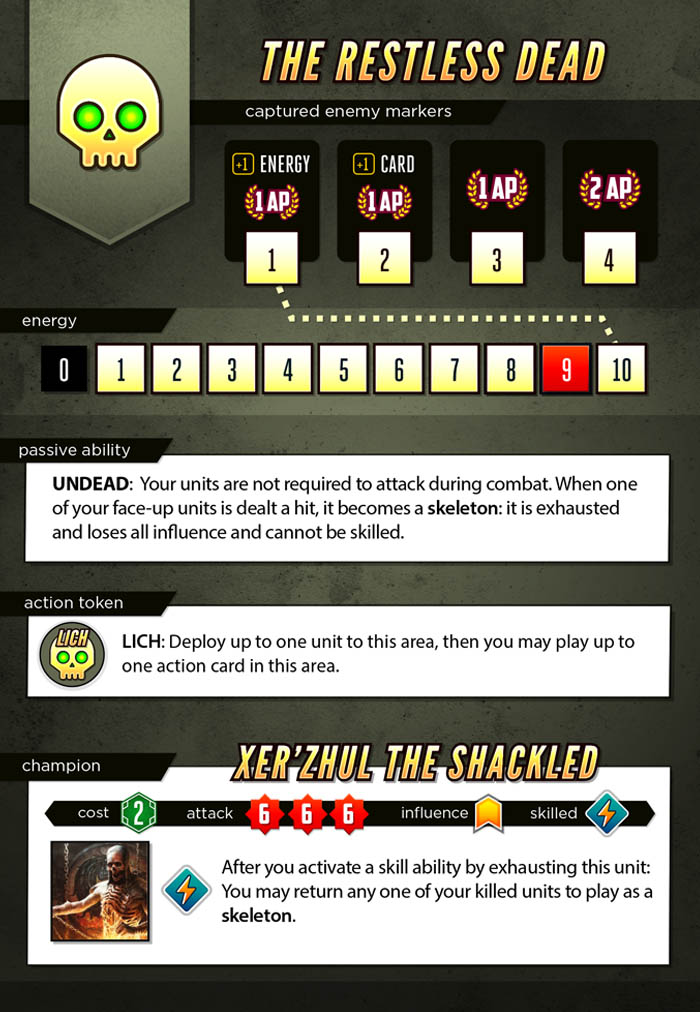
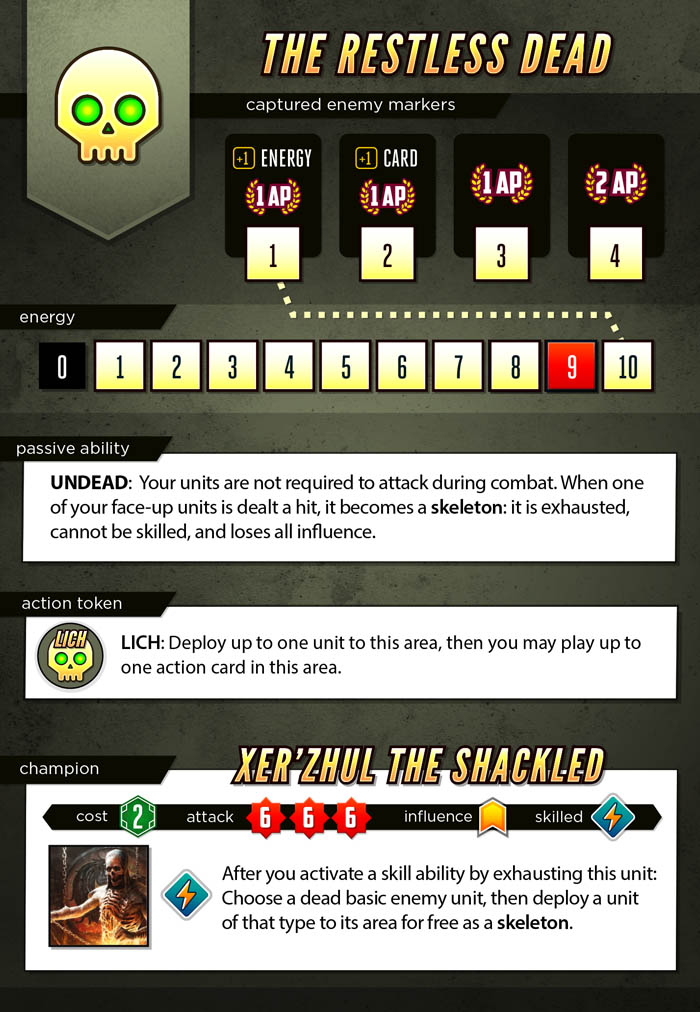
Allow skeletons to raise enemy killed units

diff --git a/server/classes/cards/AllHollowsEve.js b/server/classes/cards/AllHollowsEve.js
@@ -8,76 +8,9 @@ class AllHollowsEve extends Card {
      * Resolve this card ability
      */
     async handle(){
-
         await this.faction.reviveUnits( { reviveCount: this.reviveCount } );
-
-        /*
-        // get our potential areas, and if we have none abort
-        let areas = this.getAreasWithKilledUnits();
-        if( !areas.length ){
-            this.faction.message( 'No killed units to revive', { class : 'warning' } );
-            return;
-        }
-
-        // let player choose their next unit
-        let response = await this.faction.prompt( 'choose-units', {
-            count : this.reviveCount,
-            optionalMax: true,
-            areas : areas,
-            playerOnly : true,
-            killedOnly : true,
-            message: `Choose up to ${this.reviveCount} units killed to revive`,
-        });
-
-        // no unit selected? Welp, guess we are done here
-        if( !response.units ){
-            this.faction.message( 'Declines to revive any units', { class : 'warning' } );
-            return;
-        }
-
-        // revive our units
-        await this.resolveUnitRevival( response );
-         */
     }
 
-
-    /**
-     * Return an array of area names where we have killed units
-     *
-     * @returns {string[]}
-
-    getAreasWithKilledUnits(){
-        let areas = {};
-
-        // get areas where we have killed units
-        this.faction.data.units.forEach( unit => {
-            if( unit.killed && unit.location ){
-                areas[unit.location] = true;
-            }
-        });
-
-        return Object.keys( areas );
-    }
-
-
-    async resolveUnitRevival( response ){
-        // get our unit objects
-        let units = response.units.map( unitId => this.game.objectMap[unitId] );
-
-        // revive our units
-        units.forEach( unit => {
-            unit.killed = false;
-            if( unit.ready ) unit.ready = false;
-            if( unit.flipped ) this.faction.unflipUnit( unit );
-        });
-
-        // display the results
-        await this.game.timedPrompt('units-shifted', {
-            message: `The ${this.faction.name} returns killed units to play`,
-            units: units
-        }).catch( error => console.error( error ) );
-    }
-     */
 }
 
 module.exports = AllHollowsEve;

diff --git a/server/classes/factions/Skeletons.js b/server/classes/factions/Skeletons.js
@@ -82,8 +82,6 @@ class Skeletons extends Faction {
                 hitsAssigned: 0,
                 onDamaged : 'checkBecomeSkeleton',
                 onSkill : 'xerZhulRaiseDead',
-                //onDeploy : 'xerZhulEnters',
-                //onMove : 'xerZhulEnters'
             }
         };
     }
@@ -266,14 +264,61 @@ class Skeletons extends Faction {
      * @param event
      */
     async xerZhulRaiseDead( event ){
+        const areas = this.getAreasWithKilledEnemyUnits();
+        if( !areas.length ){
+            this.message( "No dead for Xer'Zhul to raise", { class : 'warning' } );
+            return;
+        }
 
-        let units = await this.reviveUnits({
-            reviveCount : 1,
-            reviveEvent: 'reviveAsSkeletons'
+        let response = await this.prompt( 'choose-units', {
+            count: 1,
+            areas: areas,
+            killedOnly: true,
+            enemyOnly: true,
+            basicOnly: true,
+            message: "Choose a unit to raise as a skeleton",
         });
+
+        await this.resolveRaiseDead( response );
+    }
+
+    async resolveRaiseDead( response ){
+        let unit = this.game().objectMap[ response.units[0] ];
+
+        let args = {
+            area: unit.location,
+            faction: this,
+            player: this.playerId,
+            free: true,
+            deployLimit: 1,
+            unitTypes: [unit.type],
+            transformUnit: 'becomeSkeleton'
+        };
+
+        // deploy the selected unit
+        let output = await this.deploy( args );
+
+        if( output?.declined ){
+            faction.message( `Doesn't deploy a skeleton to the ${unit.location}` );
+        }
+
 
     }
 
+    /**
+     *
+     *
+     * @returns {*[]}
+     */
+    getAreasWithKilledEnemyUnits(){
+        let areas = [];
+        Object.values( this.game().factions ).forEach( faction => {
+            if( faction.name === this.name ) return;
+            areas = [...areas, ...faction.getAreasWithKilledUnits()];
+        });
+
+        return [...new Set(areas)]
+    }
 
     /**
      * Revive our units ask skeletons when using xerZhul's revive ability

diff --git a/server/classes/factions/mixins/deploysUnits.js b/server/classes/factions/mixins/deploysUnits.js
@@ -71,7 +71,8 @@ let obj = {
             fromToken : args.fromToken,
             noBonusUnits : args.noBonusUnits,
             readyUnits : args.readyUnits,
-            reduceCost : args.reduceCost
+            reduceCost : args.reduceCost,
+            transformUnit : args.transformUnit
         };
 
         // have the player select units to deploy
@@ -240,6 +241,12 @@ let obj = {
         if( unit.flipped && ( unit.toughness || !unit.location || unit.skeleton ) ){
             this.unflipUnit( unit );
         }
+
+        console.log( 'delpoy response', response );
+        if( !unit.flipped && response.transformUnit ) {
+            this[response.transformUnit]( unit );
+        }
+
 
         // ready units
         if( response.readyUnits ){

diff --git a/server/classes/factions/Faction.js b/server/classes/factions/Faction.js
@@ -96,7 +96,7 @@ class Faction {
      * Set God mode
      */
     godMode(){
-        this.data.cardDraw = 15;
+        this.data.cardDraw = 11;
         this.data.planLimit = 8;
         this.data.maxEnergy = 30;
     }
